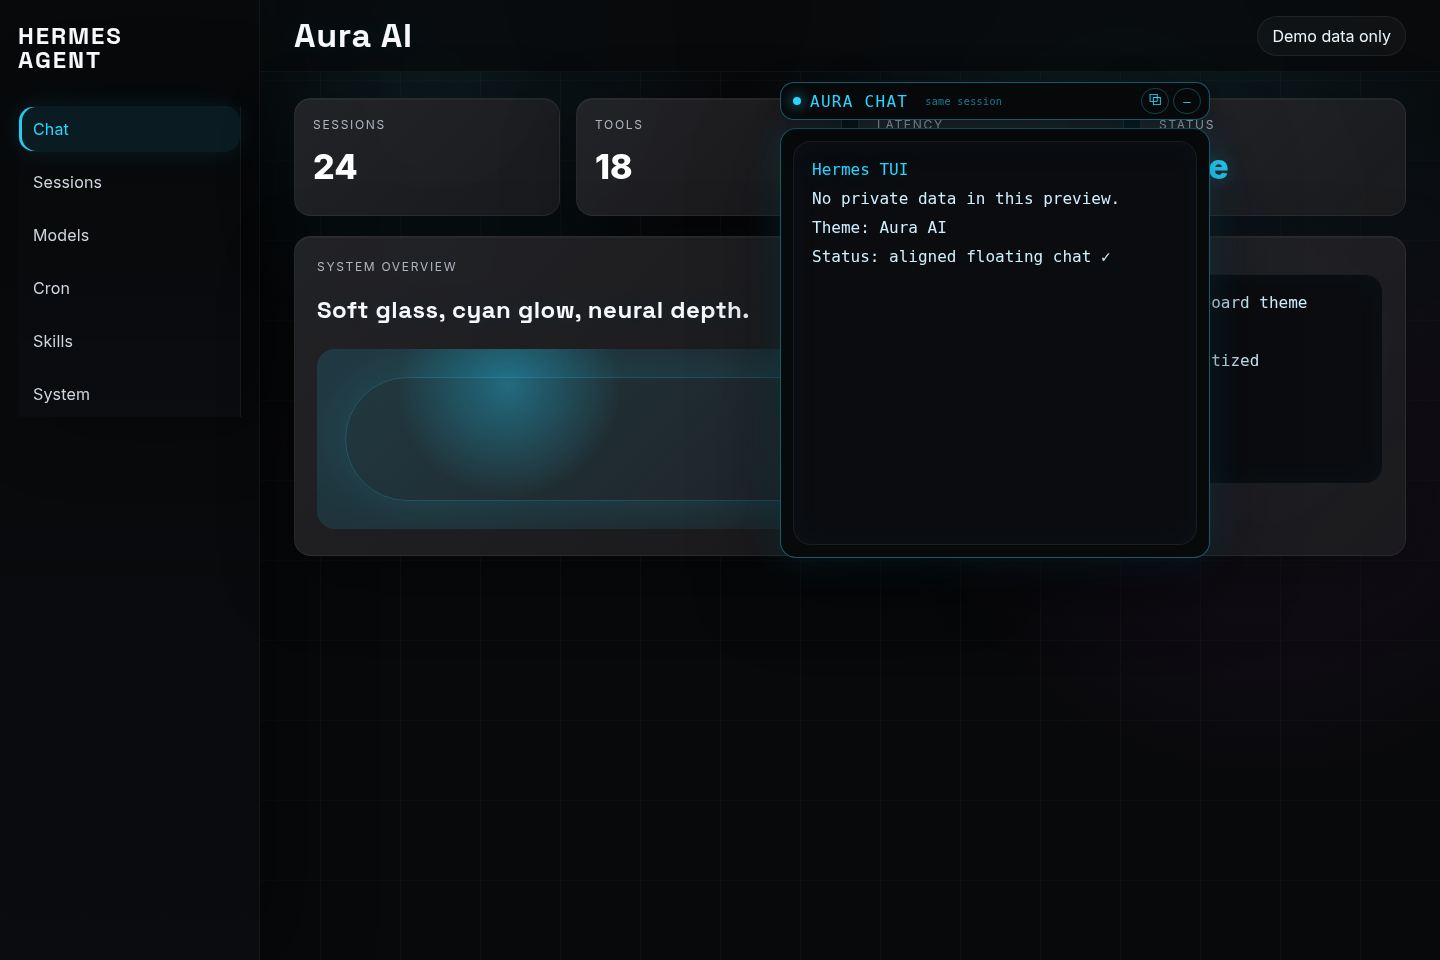
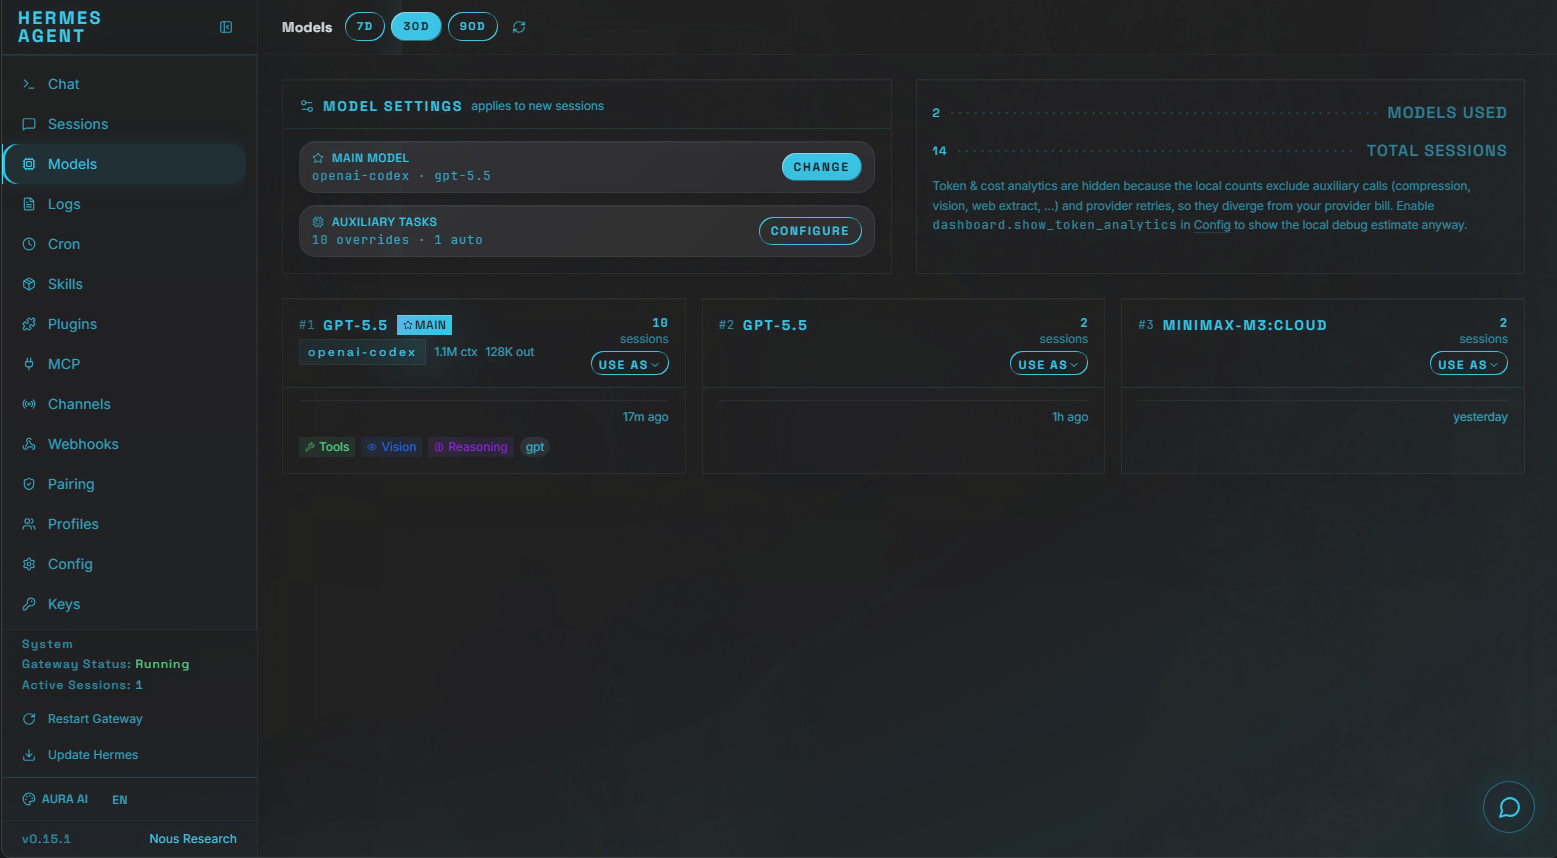
Replace Aura AI screenshots with live dashboard capture

diff --git a/README.md b/README.md
@@ -8,8 +8,7 @@ Community-shareable themes for the [Hermes Agent](https://github.com/NousResearc
 
 A dark glass dashboard theme with cyan glow, rounded panels, subtle grid texture, and AI-product-dashboard vibes.
 
-![Aura AI dashboard overview](assets/screenshots/aura-ai/overview.png)
-![Aura AI floating chat](assets/screenshots/aura-ai/floating-chat.png)
+![Aura AI dashboard screenshot](assets/screenshots/aura-ai/overview.png)
 
 ## Installation
 
